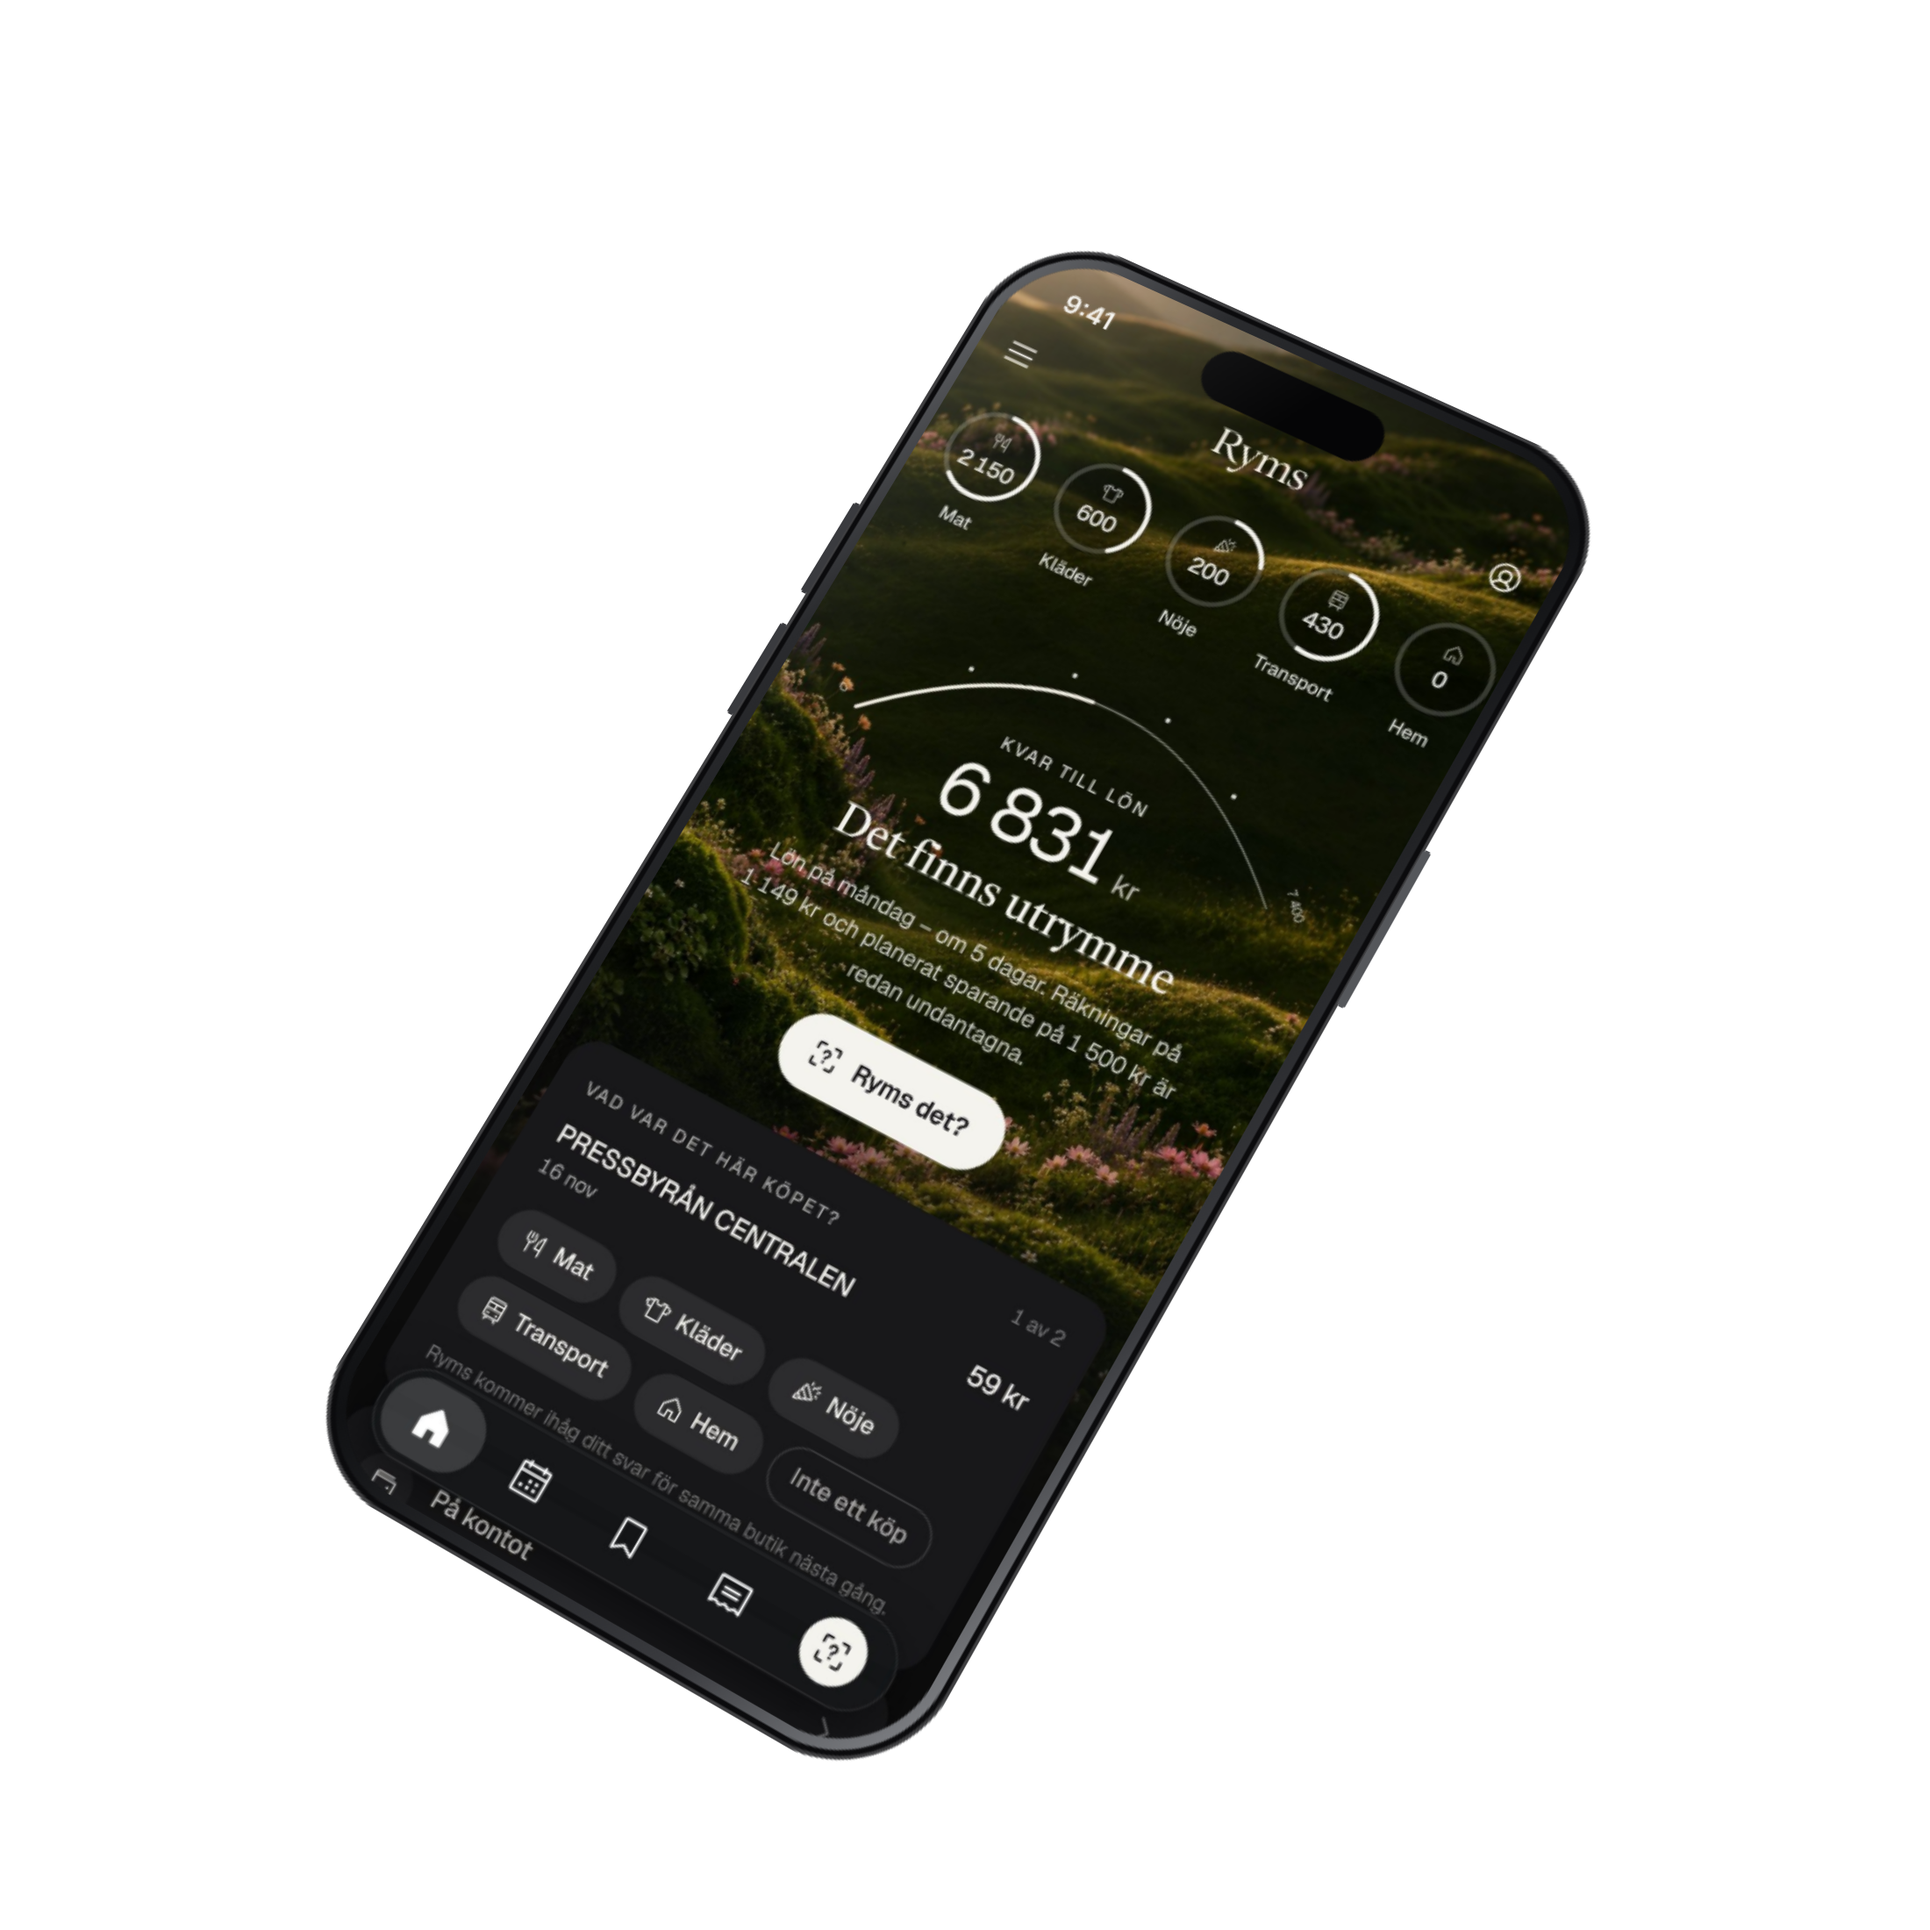
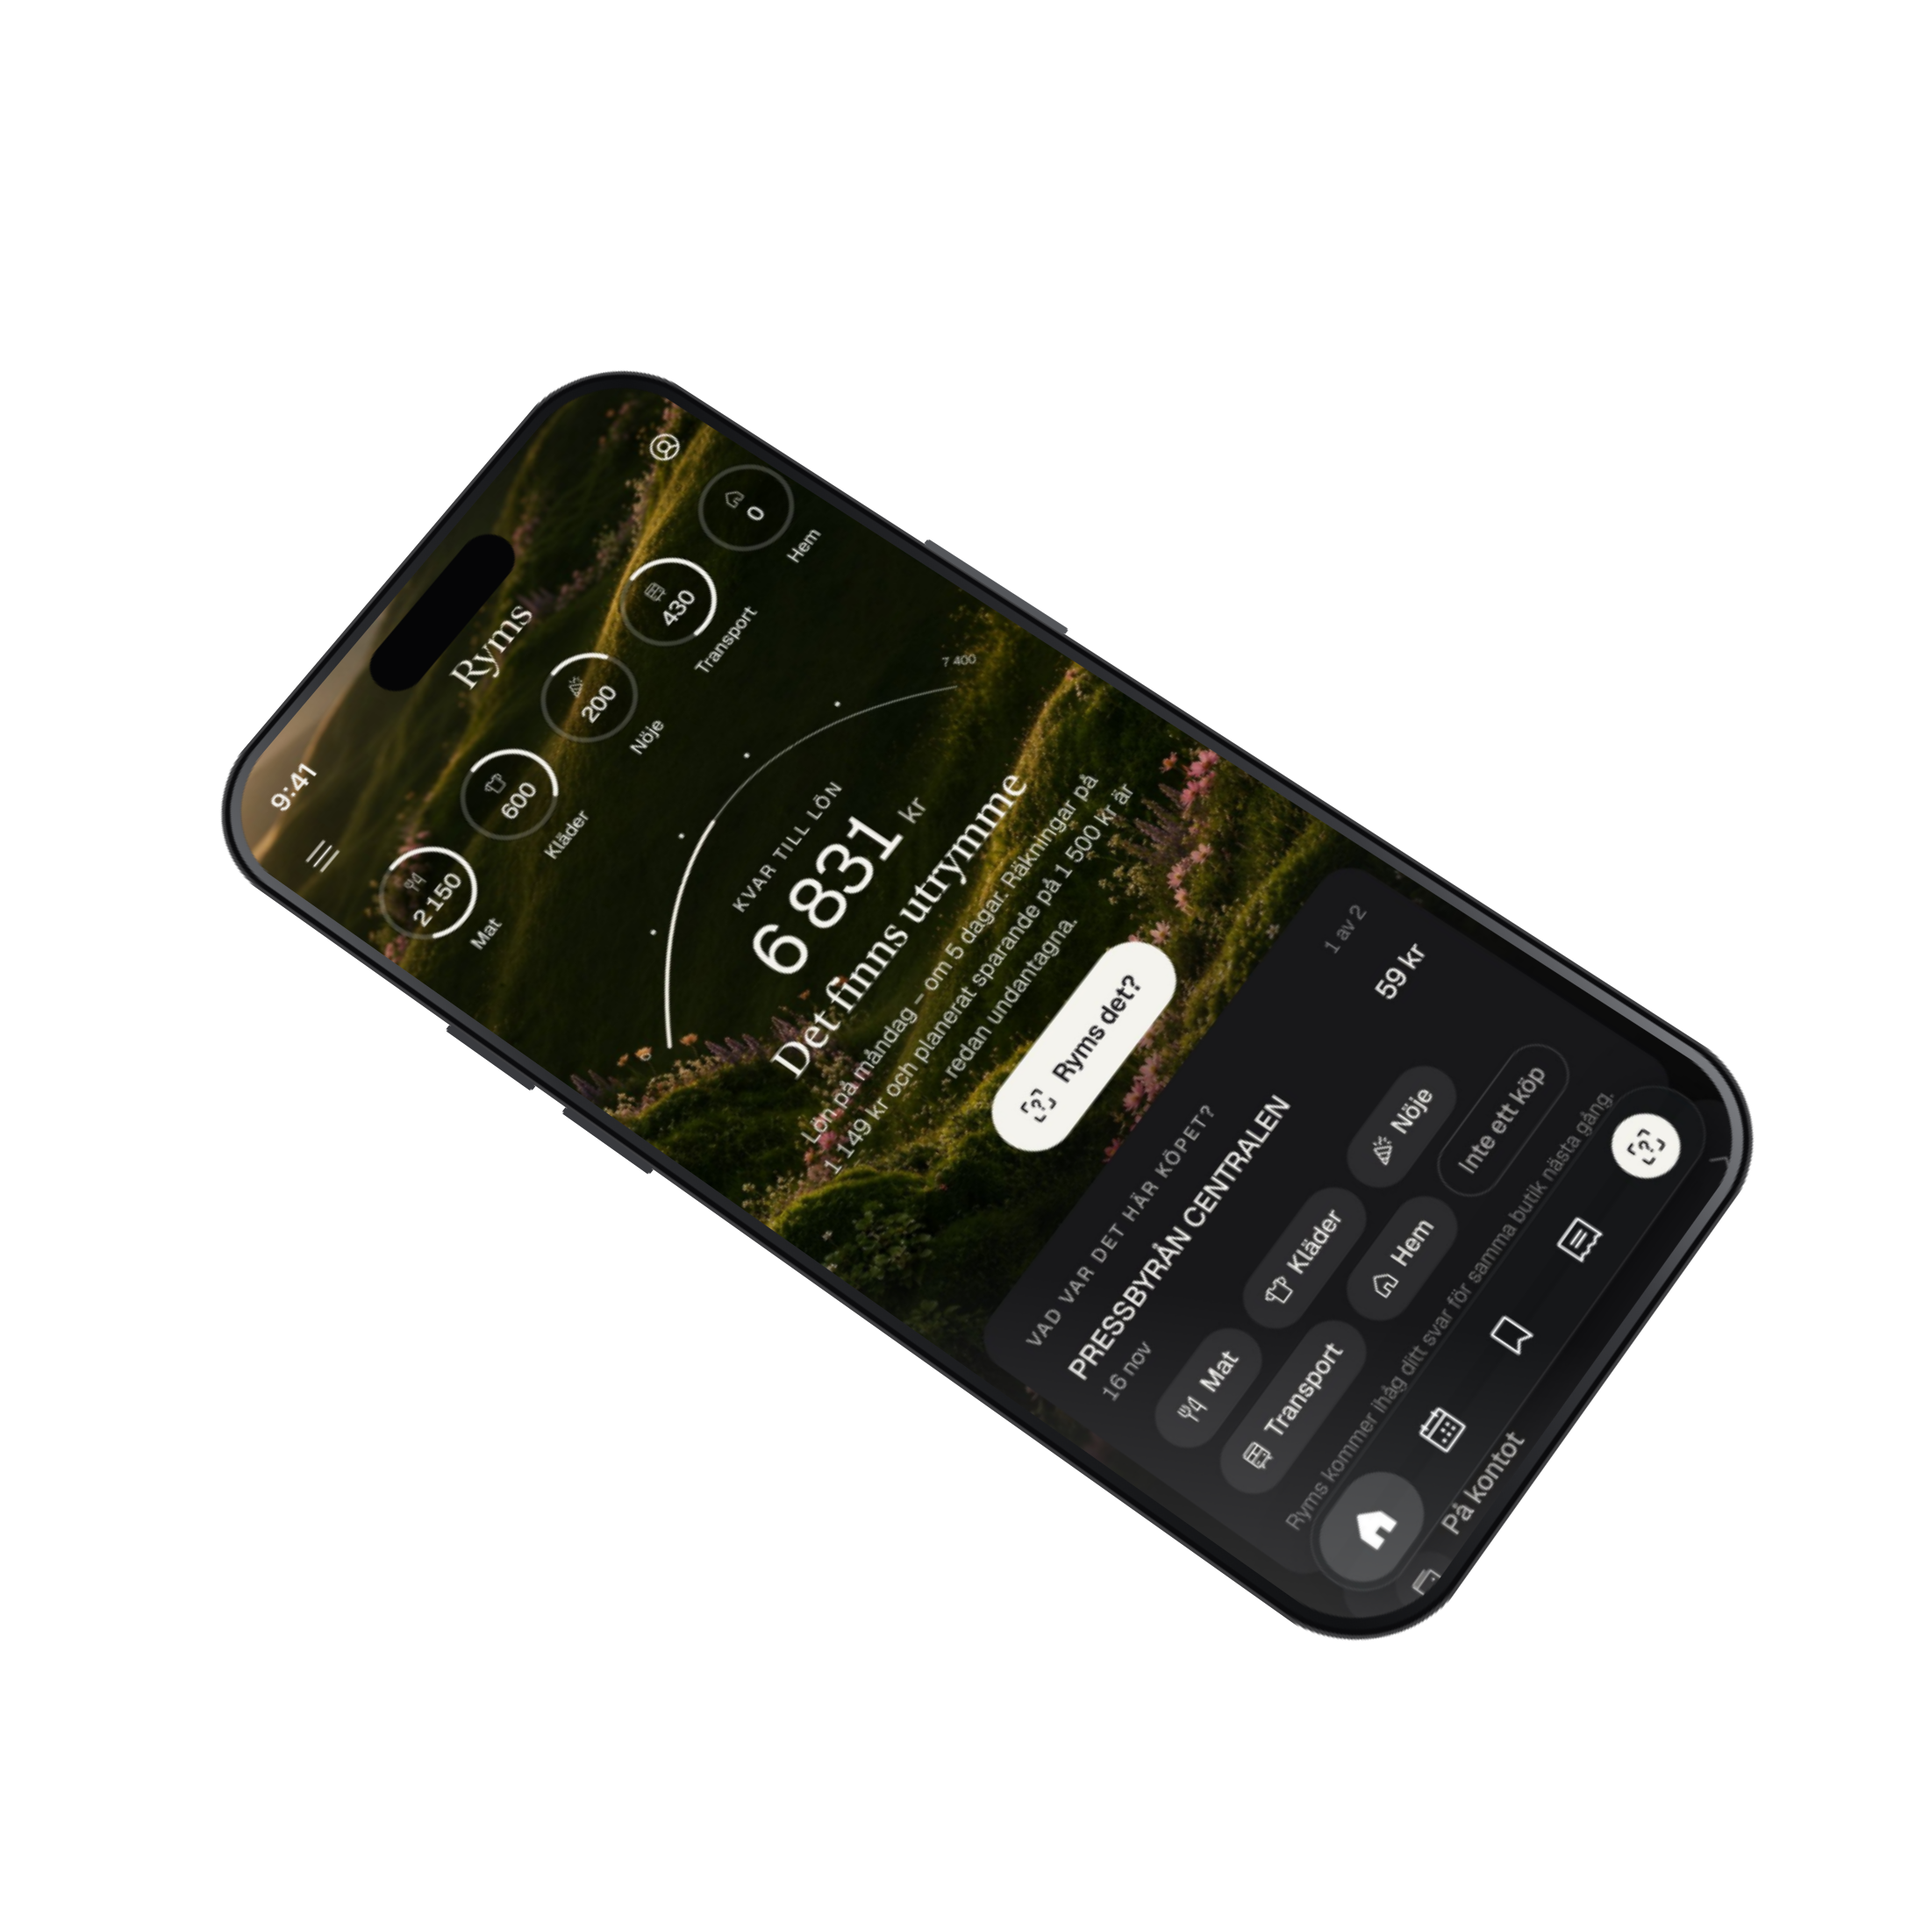
Landningssida: telefonen ligger ner åt vänster i spiralen
Claude-Session: https://claude.ai/code/session_01GAD7svFHpQ8hFb5MfyqAze

diff --git a/scripts/landing-hero.py b/scripts/landing-hero.py
@@ -10,7 +10,7 @@ ROOT = os.path.dirname(os.path.dirname(os.path.abspath(__file__)))
 A = lambda *p: os.path.join(ROOT, *p)
 K = 2  # arbetsskala
 # Telefonens läge i originalbilden (1143 x 1996): mittpunkt och höjd
-CX, CY, PH = 516, 792, 400  # PH = höjden på telefonens (lutade) yta
+CX, CY, PH = 478, 800, 330  # PH = höjden på telefonens (lutade) yta
 
 marked = Image.open(A("assets/landing/spiral-marked.jpg")).convert("RGB")
 clean = Image.open(A("assets/landing/spiral-clean.webp")).convert("RGB").resize(marked.size, Image.LANCZOS)
@@ -43,7 +43,7 @@ dark = b.sum(axis=2) < sky.sum() - 110
 foliage = ((dist > 95) | dark).astype(np.uint8) * 255
 fol = Image.fromarray(foliage).filter(ImageFilter.MedianFilter(5)).filter(ImageFilter.GaussianBlur(1.2))
 ramp = np.zeros((base.height, base.width), np.float32)
-top, bot = y0 + int(phone.height * 0.70), y0 + int(phone.height * 0.84)
+top, bot = y0 + int(phone.height * 0.66), y0 + int(phone.height * 0.82)
 ys = np.arange(base.height)[:, None]
 ramp[:] = np.clip((ys - top) / max(1, bot - top), 0, 1)
 front = ImageChops.multiply(fol, Image.fromarray((ramp * 255).astype(np.uint8)))
